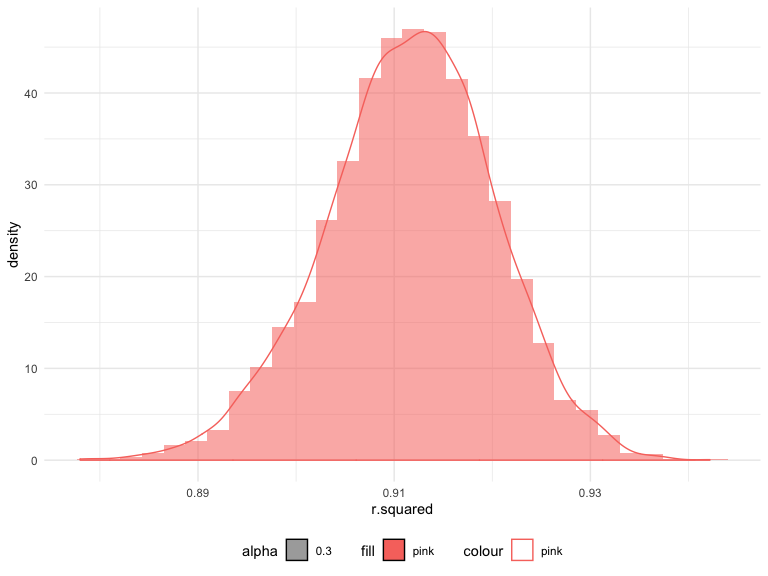
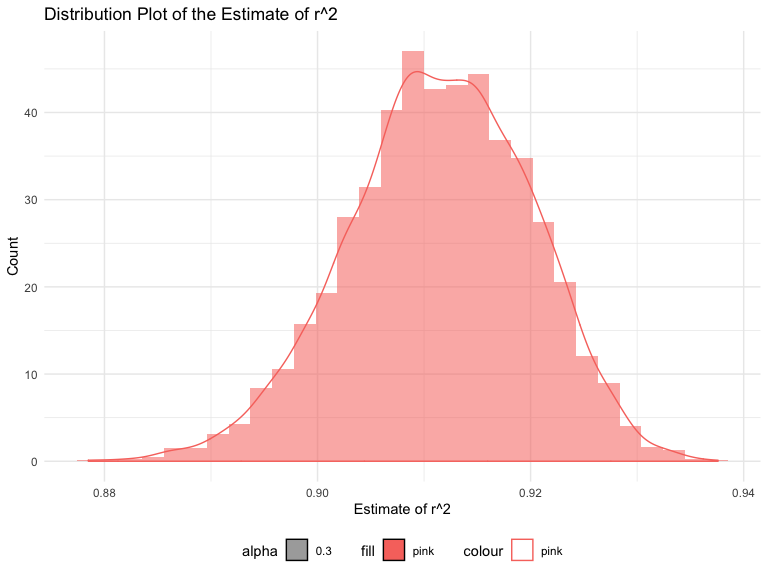
add comment

diff --git a/p8105_hw6_ys3298.md b/p8105_hw6_ys3298.md
@@ -125,14 +125,18 @@ bootstrap_results =
   unnest(results,variables) 
 ```
 
-## r^2
+## plot of r^2
 
 ``` r
 # plot r^2
 bootstrap_results %>% 
   filter(term == "tmin_x") %>% 
   select(r.squared, adj.r.squared) %>% 
-  ggplot() + geom_histogram(aes(x = r.squared, y=..density.., alpha = 0.3, fill = "pink")) + geom_density(aes(x = r.squared,y=..density.., alpha = 0.3, color = "pink")) 
+  ggplot() + geom_histogram(aes(x = r.squared, y =..density.., alpha = 0.3, fill = "pink")) + geom_density(aes(x = r.squared,y=..density.., alpha = 0.3, color = "pink")) +
+  labs(
+    title = "Distribution Plot of the Estimate of r^2",
+    x = "Estimate of r^2",
+    y = "Count")
 ```
 
     ## `stat_bin()` using `bins = 30`. Pick better value with `binwidth`.
@@ -143,7 +147,10 @@ bootstrap_results %>%
  # + geom_histogram(aes(x = adj.r.squared, y=..density.., alpha = 0.3, fill = "blue")) + geom_density(aes(x = adj.r.squared,y=..density.., alpha = 0.3, color = "blue"))
 ```
 
-**Describe:**
+**Describe:** From the plot, we can see the estimated r^2 basically
+follows a normal distribution, although have a heavier tail on the left.
+
+## CI of r^2
 
 ``` r
 # compute 95% CI for r^2
@@ -157,22 +164,84 @@ CI_r2
 ```
 
     ##      2.5%     97.5% 
-    ## 0.8939171 0.9277699
-
-## log(β̂ 0∗β̂ 1)
+    ## 0.8938543 0.9270850
 
 ``` r
-# plot r^2
 bootstrap_results %>% 
   filter(term == "tmin_x") %>% 
   select(r.squared, adj.r.squared) %>% 
-  ggplot() + geom_histogram(aes(x = r.squared, y=..density.., alpha = 0.3, fill = "pink")) + geom_density(aes(x = r.squared,y=..density.., alpha = 0.3, color = "pink")) 
+  ggplot() + geom_histogram(aes(x = r.squared, y =..density.., alpha = 0.3, fill = "pink")) + geom_density(aes(x = r.squared,y=..density.., alpha = 0.3, color = "pink")) +
+  geom_vline(aes(xintercept = CI_r2[[1]]), color = "red") +
+  geom_vline(aes(xintercept = CI_r2[[2]]), color = "red") +
+  labs(
+    title = "Distribution Plot of the Estimate of r^2",
+    x = "Estimate of r^2",
+    y = "Count") 
+```
+
+    ## `stat_bin()` using `bins = 30`. Pick better value with `binwidth`.
+
+<img src="p8105_hw6_ys3298_files/figure-gfm/unnamed-chunk-6-1.png" width="90%" />
+
+## plot log(β̂ 0∗β̂ 1)
+
+``` r
+# compute log(β̂ 0∗β̂ 1)
+# plot log(β̂ 0∗β̂ 1)
+
+log =
+  bootstrap_results %>% 
+  select(.id, term, estimate) %>% 
+  pivot_wider(
+    id_cols = .id,
+    values_from = estimate,
+    names_from = term
+  ) %>% 
+  janitor::clean_names() %>% 
+  mutate(log_value = log(intercept*tmin_x)) 
+
+log %>% 
+  ggplot() + geom_histogram(aes(x = log_value, y =..density.., alpha = 0.3)) + geom_density(aes(x = log_value, y=..density.., alpha = 0.3)) +
+  labs(
+    title = "Distribution Plot of the Estimate of log(beta0_hat * beta1_hat)",
+    x = "Estimate of log(beta0_hat * beta1_hat)",
+    y = "Count")
 ```
 
     ## `stat_bin()` using `bins = 30`. Pick better value with `binwidth`.
 
 <img src="p8105_hw6_ys3298_files/figure-gfm/unnamed-chunk-7-1.png" width="90%" />
 
+**Describe:** From the plot above, we can conclude that the estimated
+log(β̂ 0∗β̂ 1) basically follows a normal distribution.
+
+## 95% CI log(β̂ 0∗β̂ 1)
+
 ``` r
- # + geom_histogram(aes(x = adj.r.squared, y=..density.., alpha = 0.3, fill = "blue")) + geom_density(aes(x = adj.r.squared,y=..density.., alpha = 0.3, color = "blue"))
+# compute 95% CI for log(β̂ 0∗β̂ 1)
+
+CI_log = 
+  log %>% 
+  pull(log_value) %>% 
+  quantile(c(0.025, 0.975))
+
+CI_log
 ```
+
+    ##     2.5%    97.5% 
+    ## 1.965333 2.059498
+
+``` r
+log %>% 
+  ggplot() + geom_histogram(aes(x = log_value, y =..density.., alpha = 0.3)) + geom_density(aes(x = log_value, y=..density.., alpha = 0.3)) + 
+  geom_vline(aes(xintercept = CI_log[[1]]), color = "red") +
+  geom_vline(aes(xintercept = CI_log[[2]]), color = "red") +
+  labs(
+    title = "Distribution Plot of the Estimate of log(beta0_hat * beta1_hat)",
+    x = "Estimate of log(beta0_hat * beta1_hat)",
+    y = "Count")
+```
+
+    ## `stat_bin()` using `bins = 30`. Pick better value with `binwidth`.
+
+<img src="p8105_hw6_ys3298_files/figure-gfm/unnamed-chunk-9-1.png" width="90%" />
